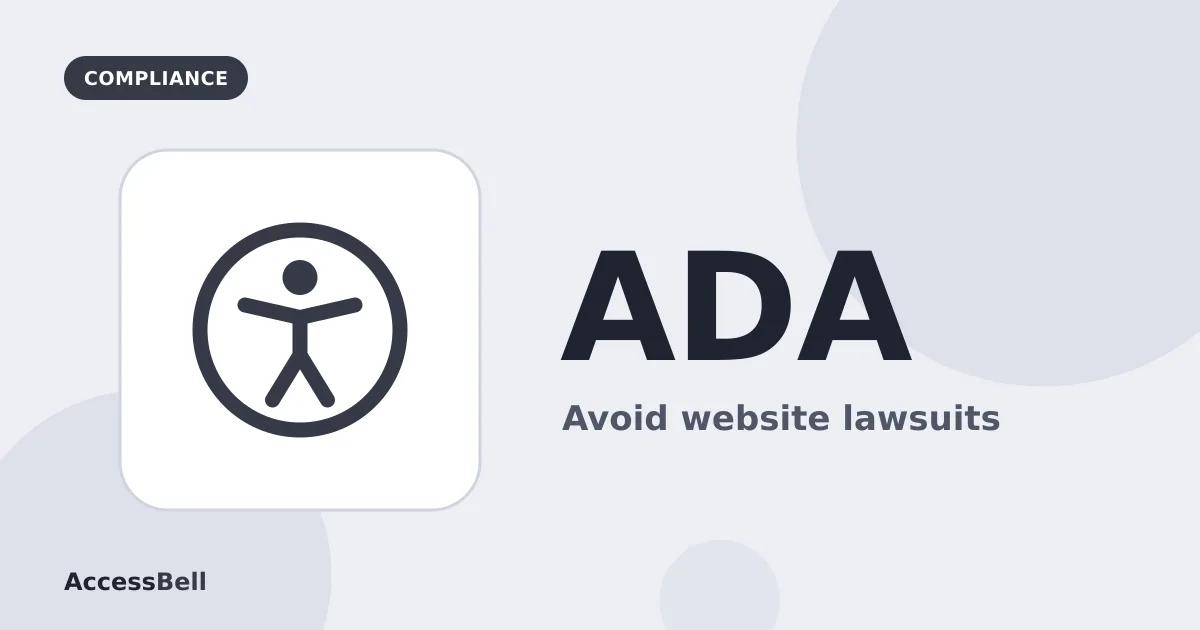
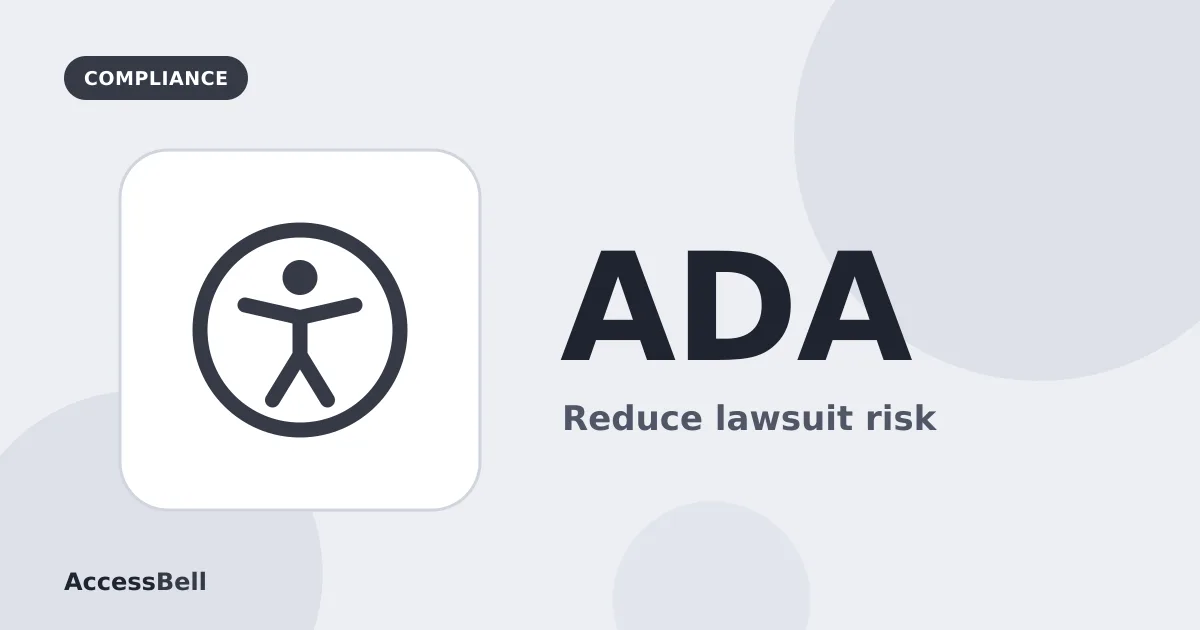
Remove compliance-guarantee wording: claim only that AccessBell helps find and fix issues
- Homepage H1: "Find ADA and WCAG Issues on Your Website and Get Help Fixing
  Them" (was "Make Your Website ADA Compliant and Keep It That Way"), and
  "Tests your site against" instead of "Checks for compliance with".
- Pricing step 4 "Keep Monitoring" (was "Stay Compliant").
- Free scan result: "Keep monitoring your site" (was "Keep your site compliant").
- Certificate: "This confirms that" (was "This certifies that").
- ADA website accessibility post: "to Help Avoid Lawsuits" / "Reduce Lawsuit
  Risk", with its cover regenerated; links to it updated.
- Automated vs manual testing post description no longer says the process
  keeps a site WCAG compliant.

Claude-Session: https://claude.ai/code/session_01Fr9hLL7DbfnsTANKsbdovs

Changed region(s): [[0.4625, 0.6333, 0.8325, 0.6937]]

diff --git a/src/data/blog-covers.js b/src/data/blog-covers.js
@@ -61,7 +61,7 @@ export const COVER_TOPICS = {
   'wcag-2-aa-checklist': { ui: 'list', label: 'AA', caption: 'WCAG 2 AA Checklist' },
   'what-you-should-know-about-wcag-2-2': { ui: 'sparkle', label: '2.2', caption: 'What’s new in WCAG' },
   'european-accessibility-act-technical-compliance': { ui: 'globe', label: 'EAA', caption: 'Technical aspects of compliance' },
-  'ada-website-accessibility': { a11y: 'universal-access', label: 'ADA', caption: 'Avoid website lawsuits' },
+  'ada-website-accessibility': { a11y: 'universal-access', label: 'ADA', caption: 'Reduce lawsuit risk' },
   'best-ada-compliance-software-for-small-businesses': { ui: 'scale', label: 'Top 5', caption: 'ADA software for small business' },
   'best-website-accessibility-testing-software': { ui: 'scan', label: 'Top 5', caption: 'Accessibility testing software' },
   'digital-accessibility-platforms': { ui: 'bell', label: 'Top 3', caption: 'Monitoring and audit platforms' },

diff --git a/src/scripts/free-scan.js b/src/scripts/free-scan.js
@@ -203,7 +203,7 @@ function showResults(r, url) {
     : null;
   const more = r.summary.rulesFailed > list.length ? el('p', { class: 'scan-result-more', text: `Plus ${r.summary.rulesFailed - list.length} more types of issue.` }) : null;
   const cta = el('div', { class: 'scan-cta' }, [
-    el('h3', { text: total ? 'Get the fix for every issue' : 'Keep your site compliant' }),
+    el('h3', { text: total ? 'Get the fix for every issue' : 'Keep monitoring your site' }),
     el('ul', {}, [
       el('li', { text: 'The failing code and a corrected example for each issue' }),
       el('li', { text: 'Every page scanned automatically, up to 500 per domain' }),

diff --git a/src/content/blog/ada-website-accessibility.md b/src/content/blog/ada-website-accessibility.md
@@ -1,7 +1,7 @@
 ---
-title: 'ADA Website Accessibility – How to Use AccessBell To Avoid Lawsuits'
-seoTitle: 'ADA Website Accessibility: Avoid Lawsuits'
-description: 'ADA website accessibility explained: who the ADA covers, whether websites count, the WCAG standard, and how to use AccessBell to avoid accessibility lawsuits.'
+title: 'ADA Website Accessibility – How to Use AccessBell to Help Avoid Lawsuits'
+seoTitle: 'ADA Website Accessibility: Reduce Lawsuit Risk'
+description: 'ADA website accessibility explained: who the ADA covers, whether websites count, the WCAG standard, and how AccessBell helps you find and fix issues behind lawsuits.'
 pubDate: 2026-10-01
 category: 'Compliance'
 contributors:
@@ -84,7 +84,7 @@ Website accessibility complaints usually describe the same handful of barriers, 
 
 Almost all of these can be found by automated testing and fixed in your code. That is what AccessBell is built to do.
 
-## How to Use AccessBell To Avoid ADA Website Accessibility Lawsuits
+## How to Use AccessBell to Help Avoid ADA Website Accessibility Lawsuits
 
 <figure>
   <img src="/blog/ada-website-accessibility/accessbell-workflow.svg" width="960" height="460" alt="The AccessBell workflow for ADA website accessibility in six steps: 1, scan your site against WCAG 2.1 or 2.2 AA. 2, fix critical issues first using the code shown for each one. 3, apply quick fixes with AccessBellFix. 4, check your PDFs. 5, monitor every day with email alerts. 6, keep proof in the Compliance Vault.">

diff --git a/src/content/blog/ada-title-iii-law-for-businesses.md b/src/content/blog/ada-title-iii-law-for-businesses.md
@@ -117,6 +117,6 @@ Eligible small businesses, generally those with 30 or fewer full-time employees 
 
 Start with the pages customers use most. [Run a free WCAG scan](/#scan) of your homepage, a product or service page and your contact or booking form, then work through the fixes. To keep your site accessible as it changes, AccessBell Pro monitors up to 500 pages per domain every day; [start a 3-day free trial](/app/signup).
 
-For a step-by-step workflow, see [ADA website accessibility: how to use AccessBell to avoid lawsuits](/blog/ada-website-accessibility).
+For a step-by-step workflow, see [ADA website accessibility: how to use AccessBell to help avoid lawsuits](/blog/ada-website-accessibility).
 
 Selling online? Our [Shopify accessibility checker](/platforms/shopify/accessibility-checker), [WooCommerce accessibility checker](/platforms/woocommerce/accessibility-checker) and [BigCommerce accessibility checker](/platforms/bigcommerce/accessibility-checker) checkers show the store issues behind many Title III claims.

diff --git a/src/content/blog/ada-website-compliance-guide.md b/src/content/blog/ada-website-compliance-guide.md
@@ -88,7 +88,7 @@ The ADA applies to websites of businesses open to the public and of state and lo
 
 Choosing a tool? Compare the [5 best ADA compliance software for small businesses](/blog/best-ada-compliance-software-for-small-businesses).
 
-Want the hands-on version? Read [ADA website accessibility: how to use AccessBell to avoid lawsuits](/blog/ada-website-accessibility).
+Want the hands-on version? Read [ADA website accessibility: how to use AccessBell to help avoid lawsuits](/blog/ada-website-accessibility).
 
 For EU requirements, read [the European Accessibility Act: technical aspects of compliance](/blog/european-accessibility-act-technical-compliance).
 

diff --git a/src/content/blog/automated-vs-manual-accessibility-testing.md b/src/content/blog/automated-vs-manual-accessibility-testing.md
@@ -1,7 +1,7 @@
 ---
 title: 'Automated vs Manual Accessibility Testing: Where Each Fits'
 seoTitle: 'Automated vs Manual Accessibility Testing'
-description: 'What automated accessibility testing catches, what needs a human, and how to combine both into a repeatable process that keeps your website WCAG compliant.'
+description: 'What automated accessibility testing catches, what needs a human, and how to combine both into a repeatable process for finding and fixing WCAG issues.'
 pubDate: 2026-09-26
 category: 'Guides'
 contributors:
